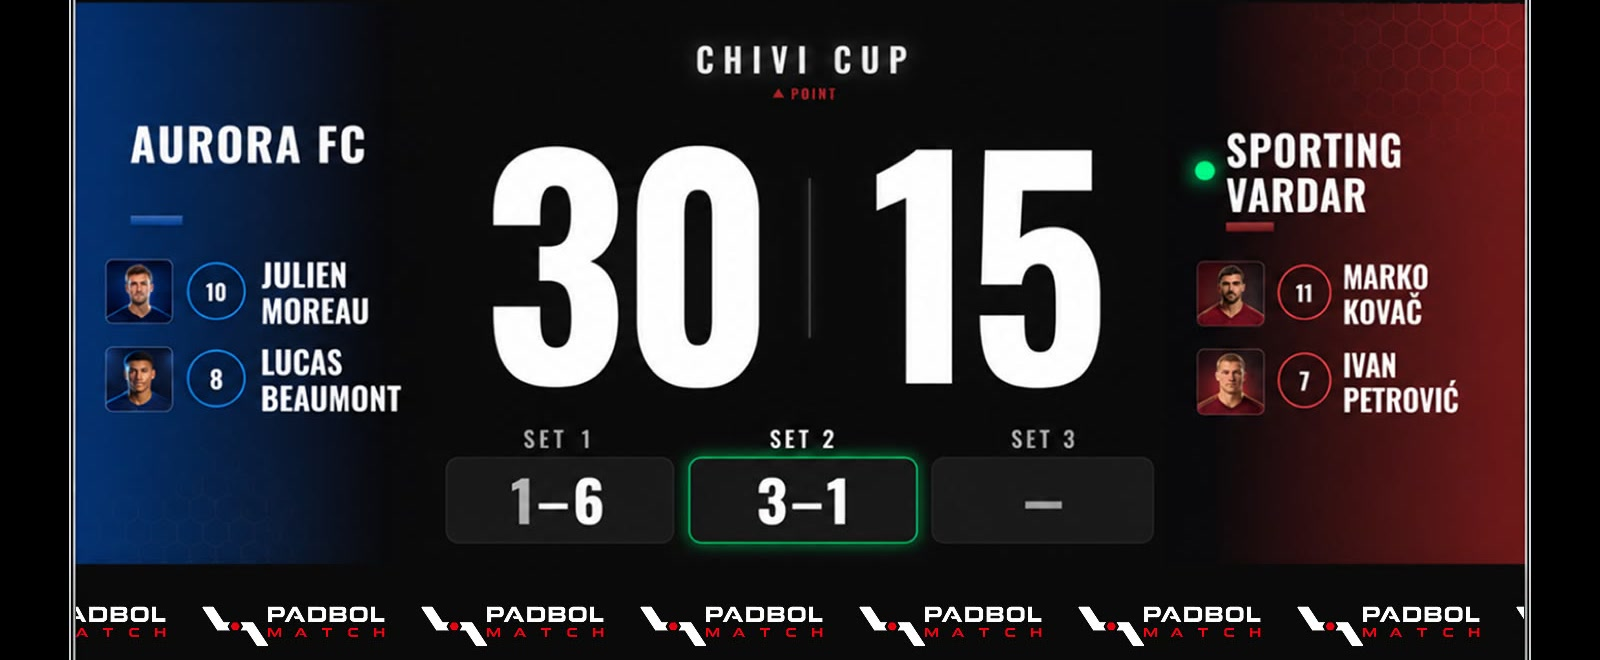
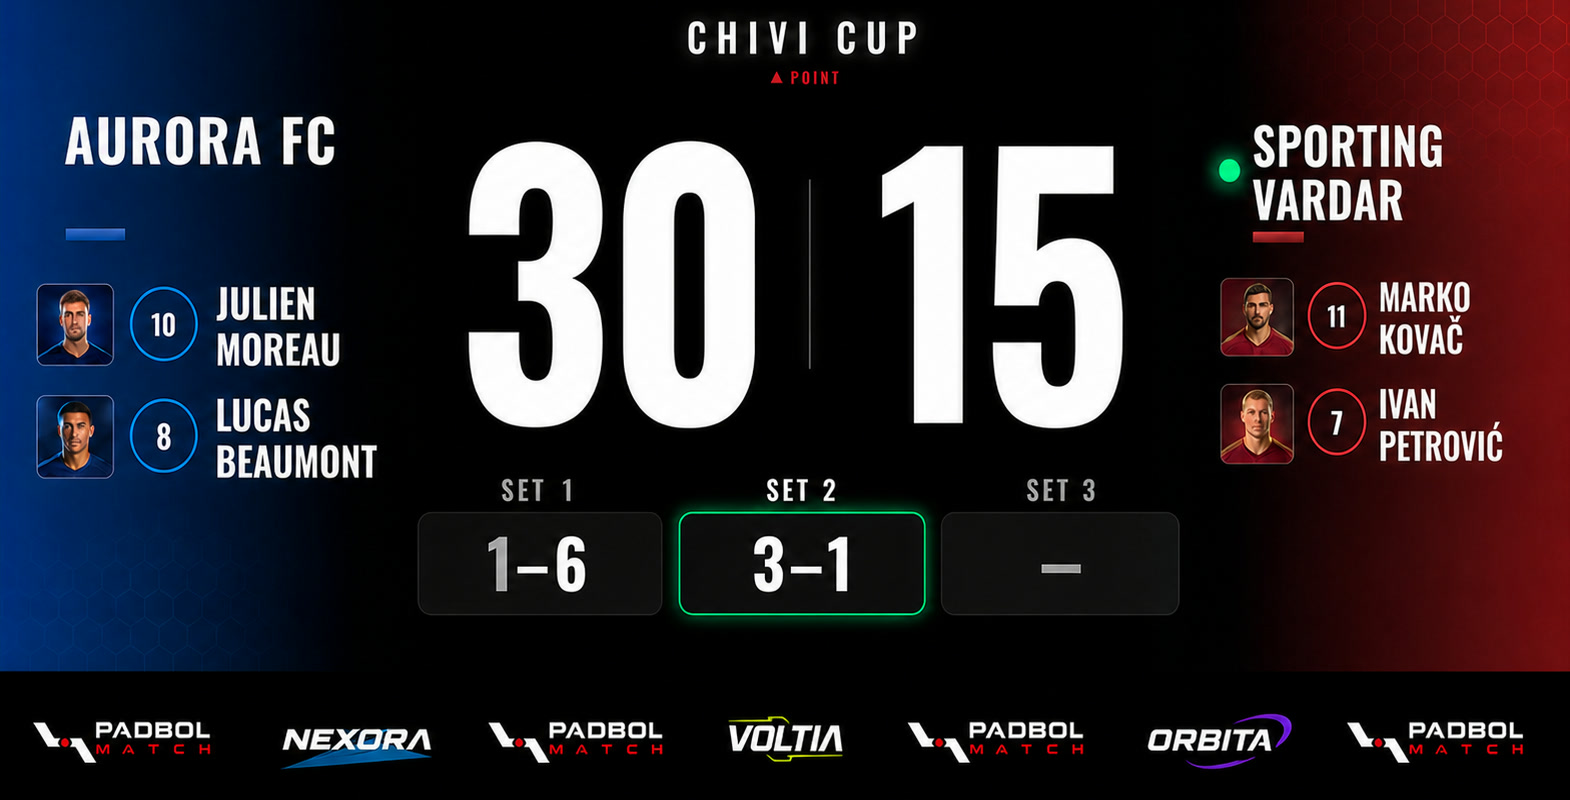
Refine smart scoreboard sponsor strip

diff --git a/padbol-match-frontend/public/sw.js b/padbol-match-frontend/public/sw.js
@@ -8,7 +8,7 @@
  * - /static/* hasheado: cache-first (immutable).
  * - Iconos/manifest: cache-first con revalidación al fallar red.
  */
-const CACHE_VERSION = 'pwa-1786038540341';
+const CACHE_VERSION = 'pwa-1786038778944';
 
 /** postMessage al cliente cuando se reemplazó una caché anterior (actualización real). */
 const MSG_UPDATED = 'PM_SW_UPDATED';

diff --git a/padbol-match-frontend/src/pwaBuildId.js b/padbol-match-frontend/src/pwaBuildId.js
@@ -1,2 +1,2 @@
 /* Auto-generado por scripts/emit-pwa-build-id.js (prebuild/prestart) — no editar a mano */
-export const PWA_BUILD_ID = "pwa-1786038540341";
+export const PWA_BUILD_ID = "pwa-1786038778944";
